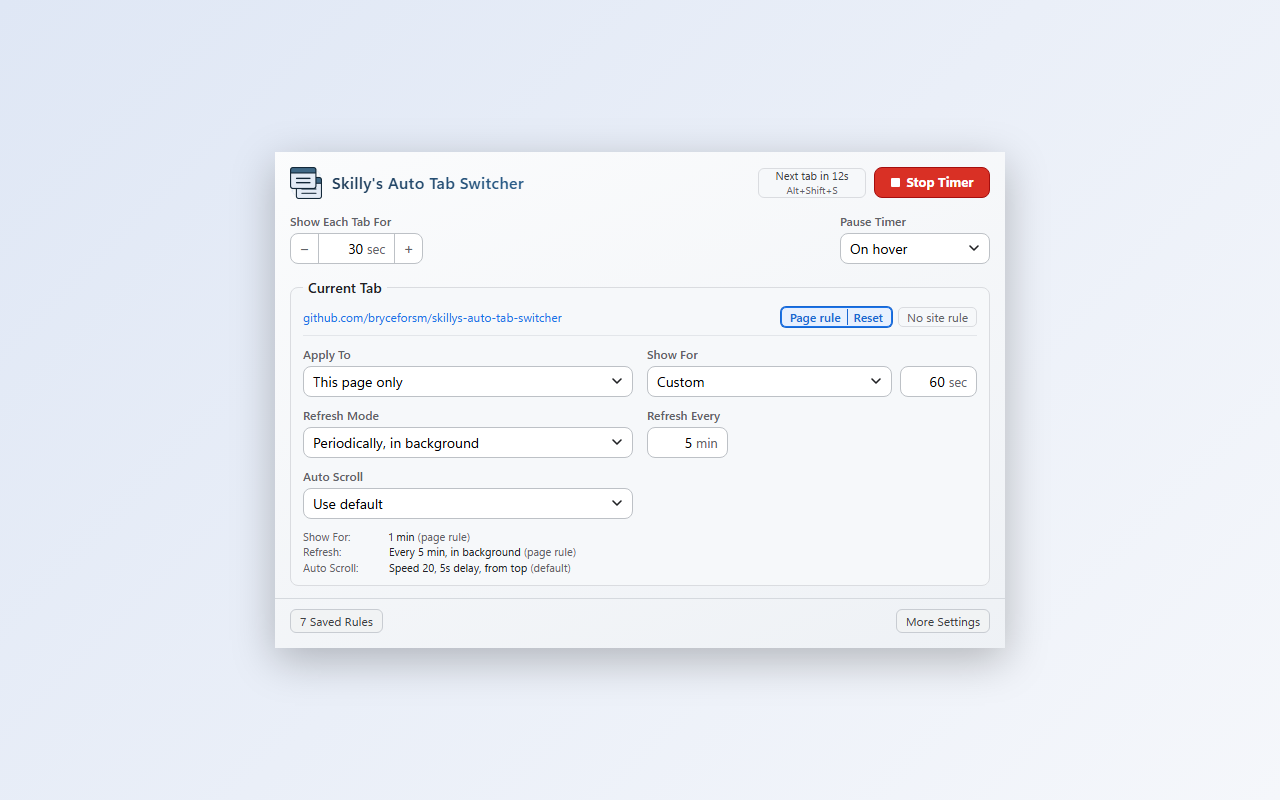
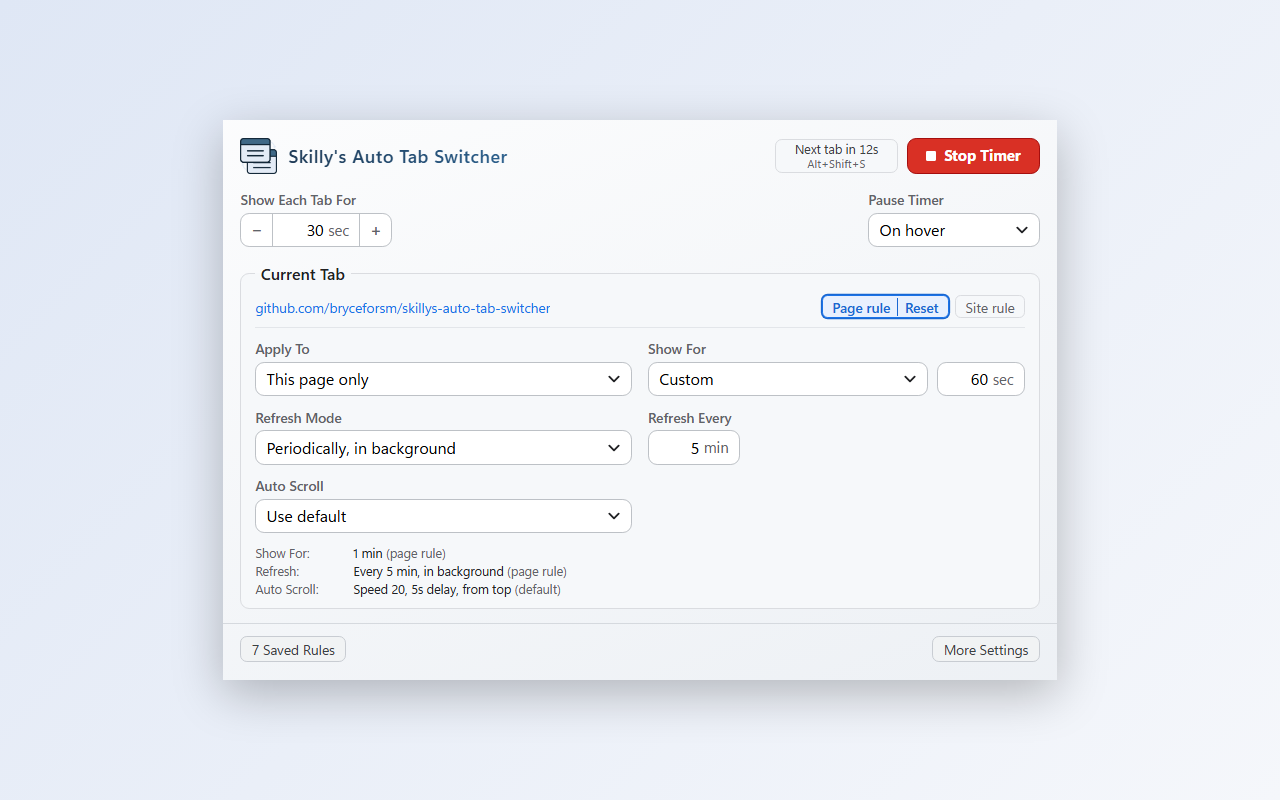
Enhance screenshot functionality and UI: update query parameters for zoom and frame, improve rule state display in popup

diff --git a/TabSwitcherExtension/popup.html b/TabSwitcherExtension/popup.html
@@ -660,11 +660,11 @@
                 <div id="pageLabel"></div>
                 <div class="rule-chips">
                     <span id="pageChip" class="rule-chip" title="Whether this exact page has its own rule. It beats the site rule.">
-                        <span id="pageChipText">No page rule</span>
+                        <span id="pageChipText">Page rule</span>
                         <button id="pageReset" class="link-button" title="Remove this page's rule so it uses the site rule or the defaults." hidden>Reset</button>
                     </span>
                     <span id="siteChip" class="rule-chip" title="Whether this whole site has its own rule.">
-                        <span id="siteChipText">No site rule</span>
+                        <span id="siteChipText">Site rule</span>
                         <button id="siteReset" class="link-button" title="Remove the whole-site rule so this site uses the defaults." hidden>Reset</button>
                     </span>
                 </div>

diff --git a/.github/skills/store-screenshots/assets/mock.js b/.github/skills/store-screenshots/assets/mock.js
@@ -60,6 +60,14 @@
         if (params.get('edit')) setTimeout(() => openEditor(params.get('edit')), 300);
         // The popup editor starts collapsed, so a chip click opens it after the page has initialised.
         if (params.get('open')) setTimeout(() => document.getElementById(params.get('open') + 'Chip')?.click(), 500);
+        // The store downsizes to about 800x500, so enlarge the popup to fill most of the canvas.
+        if (params.get('frame')) {
+            setTimeout(() => {
+                const box = document.body.getBoundingClientRect();
+                document.body.style.zoom = Math.min(innerWidth * 0.8 / box.width, innerHeight * 0.8 / box.height);
+            }, 900);
+        }
+        if (params.get('zoom')) document.body.style.zoom = params.get('zoom');
         // A magenta backdrop lets the script find where the popup ends in a tall screenshot.
         if (params.get('measure')) {
             const style = document.createElement('style');

diff --git a/TabSwitcherExtension/popup.js b/TabSwitcherExtension/popup.js
@@ -331,11 +331,10 @@ function renderRuleState() {
     updatePageLabel();
     for (const scope of ['page', 'site']) {
         const has = !!(pageKeys[scope] && rules[pageKeys[scope]]);
-        const name = scope === 'page' ? 'Page' : 'Site';
         $(scope + 'Chip').hidden = !pageKeys[scope];
         $(scope + 'Chip').classList.toggle('active', has);
         $(scope + 'Chip').classList.toggle('selected', customizing && $('ruleScope').value === scope);
-        $(scope + 'ChipText').textContent = has ? `${name} rule` : `No ${scope} rule`;
+        $(scope + 'ChipText').textContent = scope === 'page' ? 'Page rule' : 'Site rule';
         $(scope + 'Reset').hidden = !has;
     }
     updateEffectiveRule();

diff --git a/.github/skills/store-screenshots/SKILL.md b/.github/skills/store-screenshots/SKILL.md
@@ -29,7 +29,7 @@ Renders the real `popup.html` and `rules.html` with sample data in headless Edge
 ## Changing what is shown
 
 - Settings, rules, the current tab URL and the theme come from [assets/mock.js](./assets/mock.js). Edit `store` there.
-- Query parameters understood by the mock: `theme=light|dark`, `frame=1` (centre the popup on a 1280x800 backdrop), `defaults=1` (out-of-box `DEFAULTS` from `shared.js`, no rules, timer stopped), `edit=<rule key>` (open the Edit Rule dialog), `measure=1` (magenta backdrop used to measure popup height), `open=page|site` (click that rule pill so the popup's collapsed editor is open), `tab=<url>` (the active tab's address), `paused=1` (timer shown as paused).
+- Query parameters understood by the mock: `theme=light|dark`, `frame=1` (centre the popup on a 1280x800 backdrop and enlarge it to fill about 80% of the canvas, because the store downsizes images to about 800x500), `zoom=<factor>` (page zoom, used at 1.3 for the rules page), `defaults=1` (out-of-box `DEFAULTS` from `shared.js`, no rules, timer stopped), `edit=<rule key>` (open the Edit Rule dialog), `measure=1` (magenta backdrop used to measure popup height), `open=page|site` (click that rule pill so the popup's collapsed editor is open), `tab=<url>` (the active tab's address), `paused=1` (timer shown as paused).
 - To add a shot, add a `Save-Shot` line in the script.
 
 ## Things that don't work (already tried)
